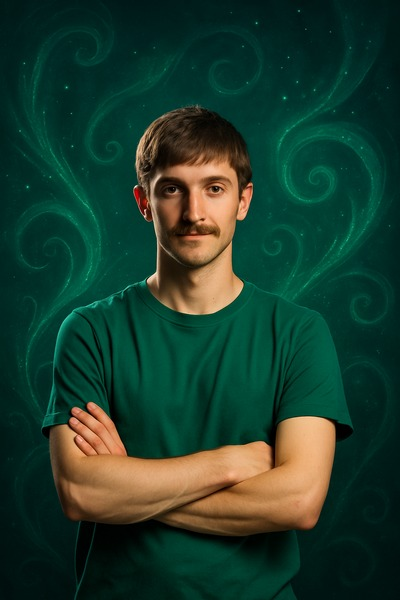
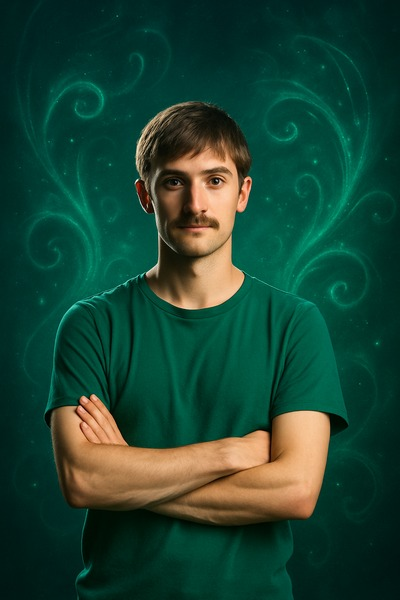
Add Jess Demestoy (Espantapájaro) + Diego de León (Mago de Oz)

diff --git a/index.html b/index.html
@@ -226,6 +226,16 @@
                     <p class="member-role">Dorothy</p>
                 </div>
                 <div class="cast-member">
+                    <img src="images/elenco/diego-de-leon.jpg" alt="Diego de León" loading="lazy">
+                    <h3>Diego de León</h3>
+                    <p class="member-role">Mago de Oz</p>
+                </div>
+                <div class="cast-member">
+                    <img src="images/elenco/jess-demestoy.jpg" alt="Jess Demestoy" loading="lazy">
+                    <h3>Jess Demestoy</h3>
+                    <p class="member-role">Espantapájaro</p>
+                </div>
+                <div class="cast-member">
                     <img src="images/elenco/patricia-gomez.jpg" alt="Patricia Gómez" loading="lazy">
                     <h3>Patricia Gómez</h3>
                 </div>

diff --git a/process_batch.py b/process_batch.py
@@ -1,0 +1,31 @@
+#!/usr/bin/env python3
+import openai, base64, io, sys
+from PIL import Image
+
+client = openai.OpenAI()
+
+PROMPT = """Transform this portrait photo for a theater musical website. CRITICAL: preserve the person's exact facial features, mouth shape, expression, eye shape, nose, and skin tone from the original photo — do not alter them. Replace the background with a rich dark teal-emerald green background with prominent, luminous swirling magical patterns and sparkles. The green should have a teal/blue-green tone, not pure green. Change their clothing to the same teal-emerald green. Professional theatrical headshot with magical Oz / Emerald City theme. Keep the same pose and framing."""
+
+photos = [
+    ("/Users/claw/.openclaw/media/inbound/7d498686-b43e-45c8-8790-28d8f7cef430.jpg", "images/elenco/jess-demestoy.jpg", "Jessica Demestoy"),
+    ("/Users/claw/.openclaw/media/inbound/4e905142-63a4-481f-a517-0a9f368f0fdf.jpg", "images/elenco/diego-de-leon.jpg", "Diego de León"),
+]
+
+for i, (src, dst, name) in enumerate(photos):
+    print(f"[{i+1}/{len(photos)}] {name}...", flush=True)
+    try:
+        response = client.images.edit(
+            model="gpt-image-1",
+            image=open(src, "rb"),
+            prompt=PROMPT,
+            size="1024x1536"
+        )
+        img_data = base64.b64decode(response.data[0].b64_json)
+        img = Image.open(io.BytesIO(img_data))
+        img = img.resize((400, 600), Image.LANCZOS)
+        img.save(dst, 'JPEG', quality=92)
+        print(f"  ✓ Done", flush=True)
+    except Exception as e:
+        print(f"  ✗ Error: {e}", flush=True)
+
+print("All done!")
